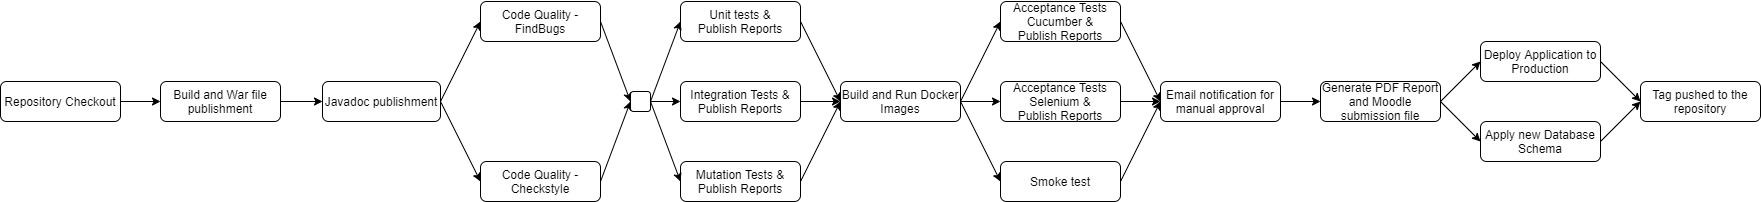
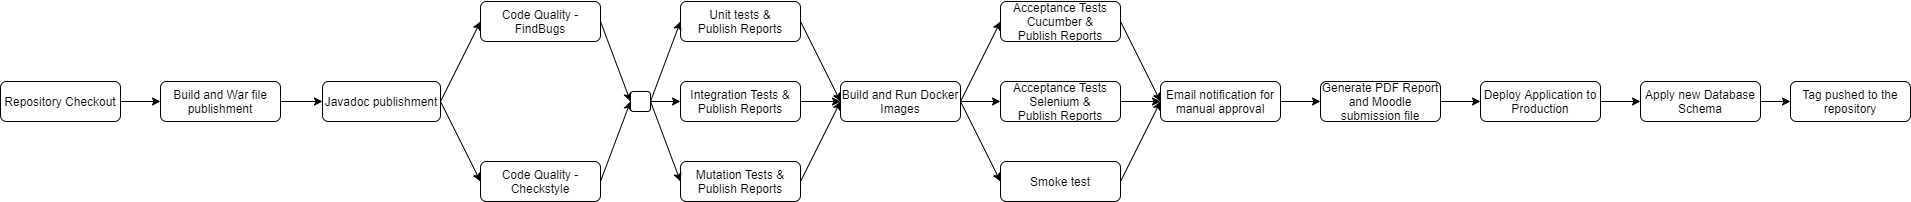
update formato pipeline

diff --git a/readme.md b/readme.md
@@ -188,15 +188,18 @@ De forma a facilitar a organização no desenvolvimento do projeto o grupo defin
 A branch **master** será a branch principal e aquela onde estará a versão mais estável do projeto. 
 O desenvolvimento irá ocorrer na branch **develop**, sendo feitas derivações desta em branches **feature** que serão incluídas na branch develop assim que aquele desenvolvimento esteja concluído.
 Na eventualidade de ser identificado um problema que requeira uma correção rápida da versão em produção (branch master) será feita uma derivação da branch desta versão para uma branch **hotfix**. Concluída a resolução do problema que motivou a correção, a mesma é enviada para as branches master e develop.
+
 ![Git Branching Model](./images/Branching_Model.jpg)
 
 ## Pipeline
 ### Esquema da Pipeline
 Após a analise inicial, o grupo definiu o seguinte esboço para a pipeline CI/CD
+
 ![Primeiro Esboço da Pipeline do Projeto](./images/Project_Pipeline_SK1.jpg)
 
 No final do projeto, o aspeto da pipeline CI/CD é o seguinte
-(Imagem da pipeline no fim)
+
+![Primeiro Esboço da Pipeline do Projeto](./images/Project_Pipeline_Final.jpg)
 
 ### Separação dos ambientes de desenvolvimento e produção
 Em ambientes corporativos onde existe o real objetivo de disponibilizar software para clientes finais existe de facto a necessidade de ter uma pipeline especifica para cada ambiente, no entanto o grupo entende que esse é um cenário demasiado complexo para o projeto a ser desenvolvido e por isso propõe a seguinte solução: O ficheiro jenkins fica na pasta cms-students (à semelhança do que acontece com os ficheiros equivalentes para o segundo class assignment). No servidor Jenkins existirão dois *jobs*, um para o ambiente de desenvolvimento e um para o ambiente de produção. Os *jobs* fazem checkout do *Jenkins File* da branch correspondente. Desta forma é garantido que o ficheiro que define os passos da pipeline está coerente com o código que está a ser trabalhado.
